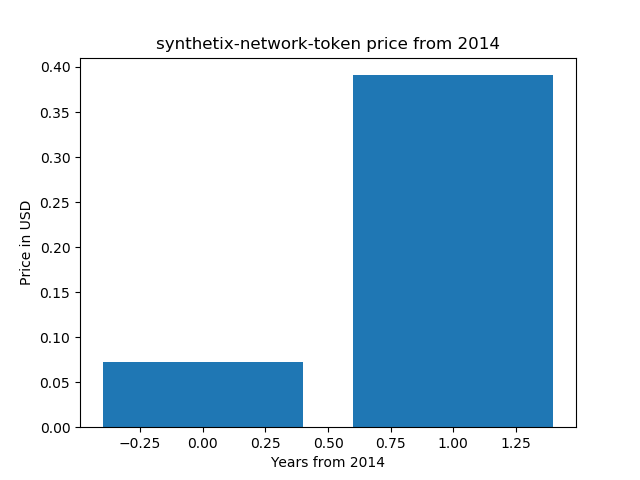
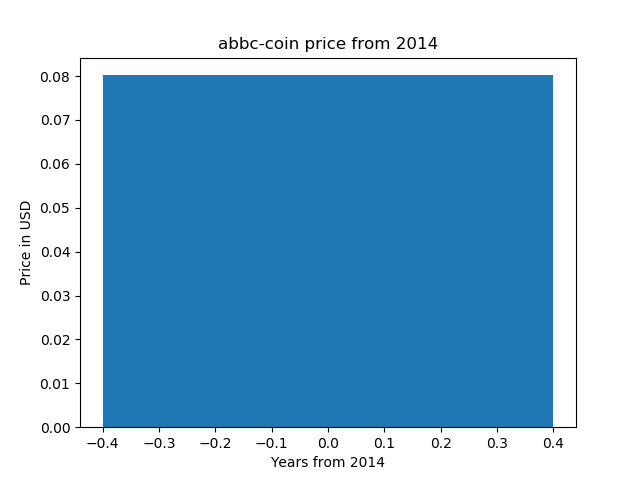
first commit

diff --git a/example.py b/example.py
@@ -10,7 +10,7 @@ from time import gmtime, strftime
 import matplotlib.pyplot as plt
 
 enddate = strftime("%Y%m%d", gmtime())
-r  = requests.get("https://coinmarketcap.com/currencies/synthetix-network-token/historical-data/?start=20140101&end={0}".format(enddate))
+r  = requests.get("https://coinmarketcap.com/currencies/abbc-coin/historical-data/?start=20140101&end={0}".format(enddate))
 data = r.text
 
 soup = BeautifulSoup(data, "html.parser")
@@ -44,7 +44,7 @@ print(x)
 
 x = list(range(0, len(prices)))
 
-plt.title('synthetix-network-token price from 2014')
+plt.title('abbc-coin price from 2014')
 plt.ylabel('Price in USD')
 plt.xlabel('Years from 2014')
 plt.bar(x, prices)

diff --git a/README.md b/README.md
@@ -1,6 +1,6 @@
-# synthetix-network-token price chart 
+# abbc-coin price chart 
 
-synthetix-network-token price chart (matplotlib, python)
+abbc-coin price chart (matplotlib, python)
 
 https://pythonprogramminglanguage.com
 
